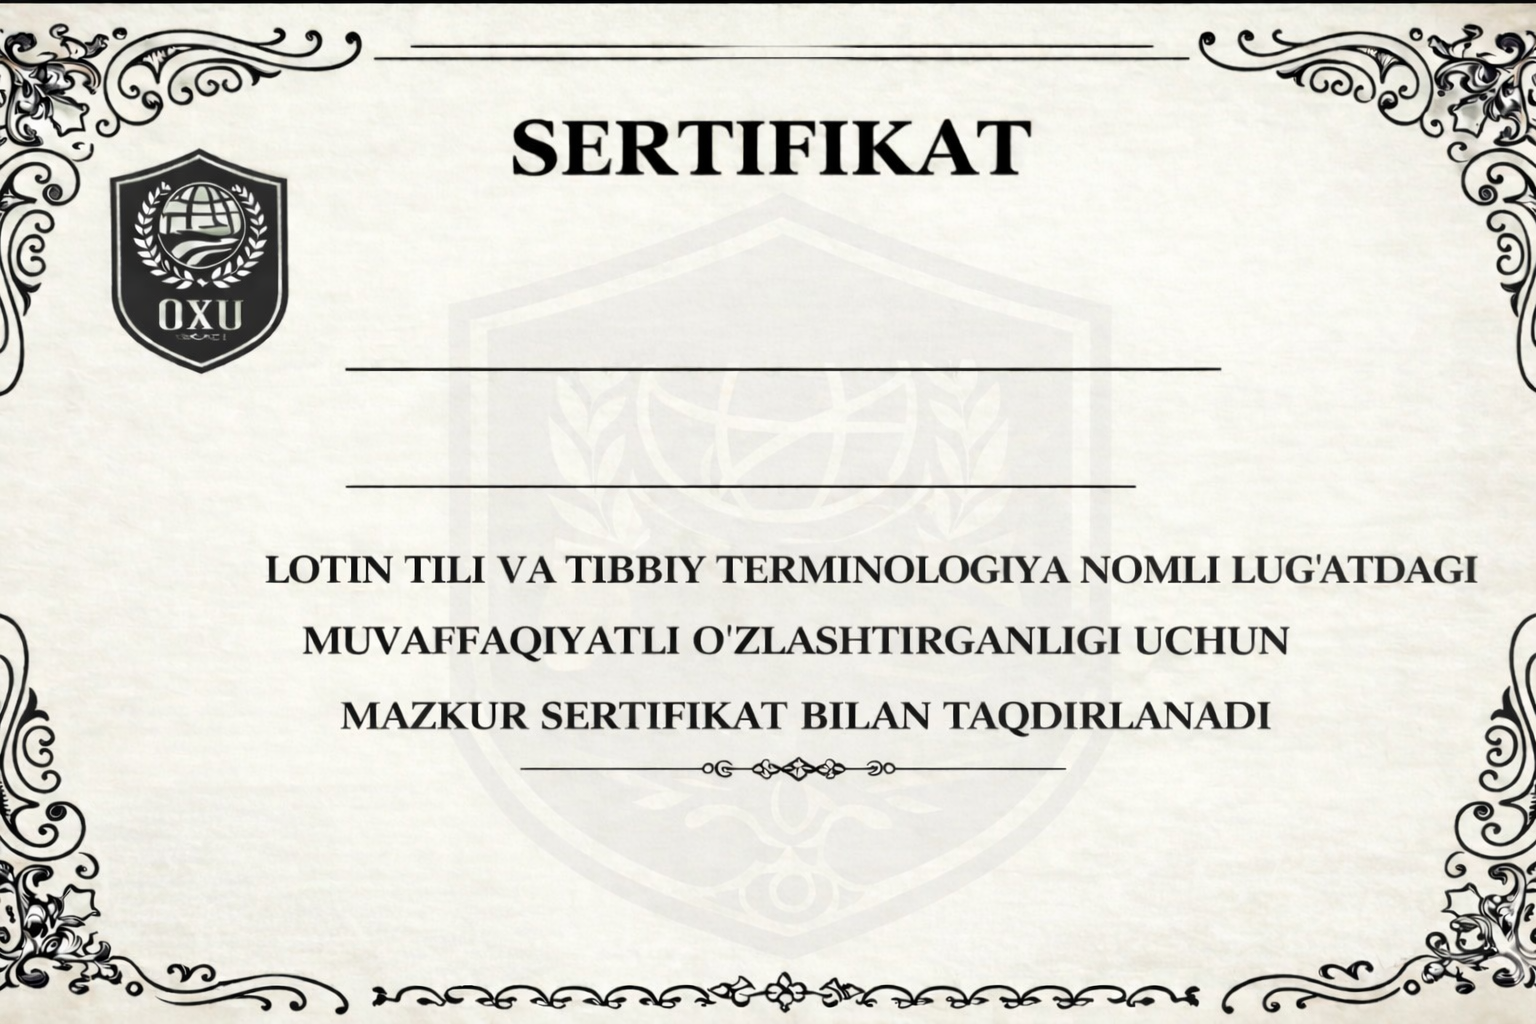
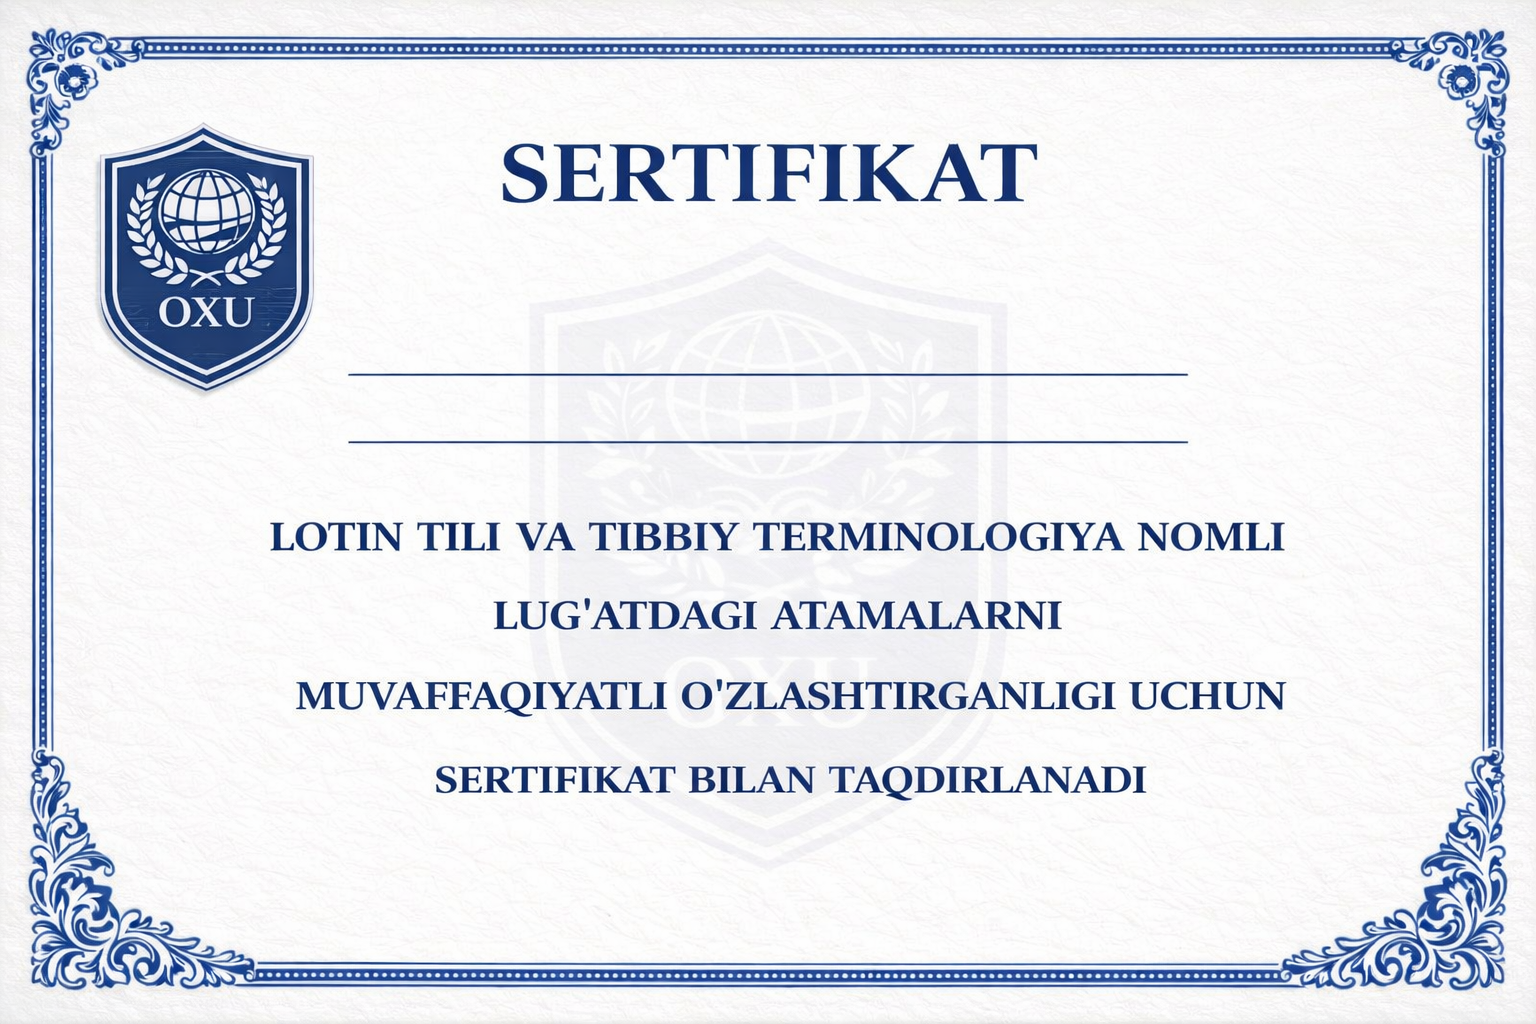
update certificate

diff --git a/app/services/certificate.py b/app/services/certificate.py
@@ -11,6 +11,7 @@ SIGNATURE_PATH = os.path.join(os.path.dirname(__file__), "../assets/signature.pn
 DEFAULT_FONT_PATH = os.path.join(os.path.dirname(__file__), "../assets/font.ttf")
 TIMES_REGULAR = r"C:\Windows\Fonts\times.ttf"
 TIMES_BOLD = r"C:\Windows\Fonts\timesbd.ttf"
+CERT_BLUE = "#234f93"
 
 
 def get_font(size: int, font_path: str | None = None):
@@ -68,64 +69,67 @@ def generate_certificate(
     font_name = fit_font(draw, user_full_name, 60, int(width * 0.58), TIMES_BOLD)
     font_accuracy = get_font(36, TIMES_REGULAR)
     font_small = get_font(24, TIMES_REGULAR)
-    font_date = get_font(30, TIMES_BOLD)
+    font_date = get_font(36, TIMES_BOLD)
     font_signer = get_font(32, TIMES_BOLD)
 
     cert_no = f"{certificate_number:03d}"
-    draw.text(
-        (width // 2, 42),
+    draw_text_with_bg(
+        draw,
+        (width // 2, 52),
         cert_no,
-        font=get_font(34, TIMES_BOLD),
-        fill="black",
-        anchor="mm",
+        get_font(30, TIMES_BOLD),
+        fill=CERT_BLUE,
+        bg="white",
+        padding_x=20,
+        padding_y=8,
     )
 
-    name_y = int(height * 0.332)
+    name_y = int(height * 0.325)
     draw.text(
         (width // 2, name_y),
         user_full_name,
         font=font_name,
-        fill="black",
+        fill=CERT_BLUE,
         anchor="mm",
         stroke_width=1,
-        stroke_fill="black",
+        stroke_fill=CERT_BLUE,
     )
 
     accuracy_text = f"{round(accuracy)}%"
-    accuracy_y = int(height * 0.445)
-    draw.text((width // 2, accuracy_y), accuracy_text, font=font_accuracy, fill="black", anchor="mm")
+    accuracy_y = int(height * 0.41)
+    draw.text((width // 2, accuracy_y), accuracy_text, font=font_accuracy, fill=CERT_BLUE, anchor="mm")
 
     verify_url = f"https://yourapp.com/verify/{certificate_uid}"
     qr_img = generate_qr_code(verify_url)
-    qr_size = int(height * 0.145)
+    qr_size = int(height * 0.20)
     qr_img = qr_img.resize((qr_size, qr_size))
-    qr_x = int(width * 0.075)
-    qr_y = int(height * 0.765)
+    qr_x = int(width * 0.11)
+    qr_y = int(height * 0.71)
     template.paste(qr_img, (qr_x, qr_y), qr_img)
 
     date_str = datetime.now().strftime("%d.%m.%Y")
-    date_x = qr_x + qr_size + 82
-    date_y = qr_y + qr_size - 16
-    draw.text((date_x, date_y), date_str, font=font_date, fill="black", anchor="lm")
+    date_x = qr_x + qr_size + 90
+    date_y = qr_y + qr_size - 10
+    draw.text((date_x, date_y), date_str, font=font_date, fill=CERT_BLUE, anchor="lm")
 
     try:
         signature = Image.open(SIGNATURE_PATH).convert("RGBA")
-        sig_width = int(width * 0.19)
+        sig_width = int(width * 0.24)
         sig_ratio = signature.height / signature.width
         sig_height = int(sig_width * sig_ratio)
         signature = signature.resize((sig_width, sig_height))
-        sig_x = int(width * 0.685)
-        sig_y = int(height * 0.735)
+        sig_x = int(width * 0.66)
+        sig_y = int(height * 0.74)
         template.paste(signature, (sig_x, sig_y), signature)
     except Exception:
         pass
 
-    signer_y = int(height * 0.905)
+    signer_y = int(height * 0.89)
     draw.text(
-        (int(width * 0.745), signer_y),
+        (int(width * 0.72), signer_y),
         "Maxmurova Mavjuda Halimovna",
         font=font_signer,
-        fill="black",
+        fill=CERT_BLUE,
         anchor="mm",
     )
 

diff --git a/alembic/versions/2b25a8b1f36d_add_users_topics_sections_entries_.py b/alembic/versions/2b25a8b1f36d_add_users_topics_sections_entries_.py
@@ -1,8 +1,8 @@
-"""users topics sections entries progress tests certificates full name
+"""add users topics sections entries progress certificate and images
 
-Revision ID: e3a443c6c741
+Revision ID: 2b25a8b1f36d
 Revises: 
-Create Date: 2026-03-29 16:47:32.460323
+Create Date: 2026-03-29 19:03:33.726435
 
 """
 from typing import Sequence, Union
@@ -12,7 +12,7 @@ import sqlalchemy as sa
 from sqlalchemy.dialects import postgresql
 
 # revision identifiers, used by Alembic.
-revision: str = 'e3a443c6c741'
+revision: str = '2b25a8b1f36d'
 down_revision: Union[str, Sequence[str], None] = None
 branch_labels: Union[str, Sequence[str], None] = None
 depends_on: Union[str, Sequence[str], None] = None
